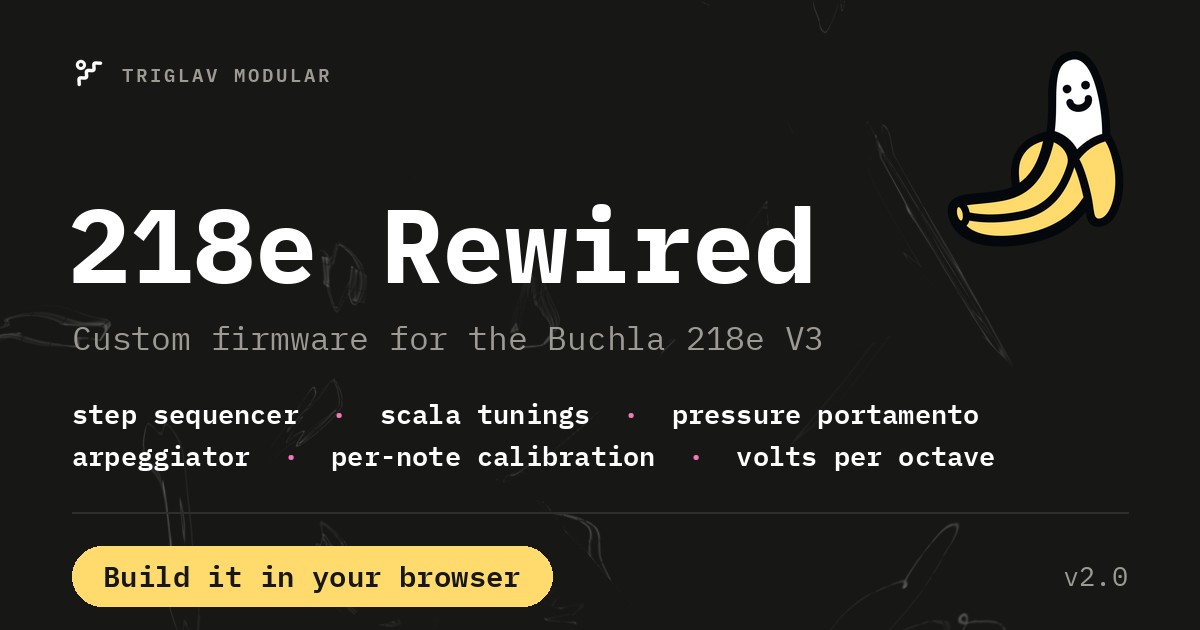
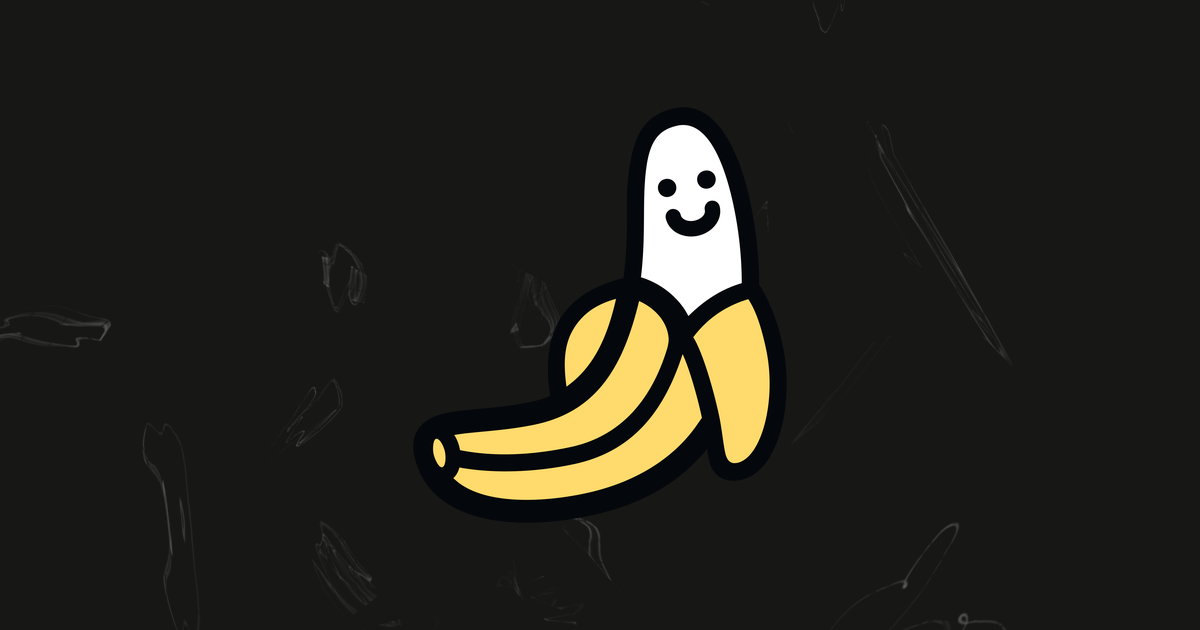
Take the words off the card and centre the banana
The title and the description sit directly under the image in every feed
that shows one, so a card that spelled them out again said everything
twice. What a preview is for is being recognised in a scroll, and that is
the banana's job.

So the card is the banana, whole, at two thirds of the height, on the
ground the page itself stands on. Centred on the drawing rather than on
the file it arrives in: banana.svg is an Illustrator export with air on
one side, and centring its frame left the banana visibly right of centre,
so the render is trimmed to its ink first and the height means the fruit.

The wave stays at .32 where the page runs it at .5 - a card is a 1200x630
crop of the same drawing, which packs those strokes into a sixth of the
room and turns a ground into marks on the picture.

That drops the type, and with it fontTools and the licensed-face problem
the headline had: nothing here is set in anything now, so the tool needs
Pillow and cairosvg and no font at all. og:image:alt describes the picture
rather than the words that used to be on it.

Claude-Session: https://claude.ai/code/session_01JBcw1j9JKiynshZqRqZo1y

diff --git a/web/index.html b/web/index.html
@@ -18,8 +18,10 @@
          crop of the peel on white with no words on it.
 
          The card itself is web/images/og-card.png, drawn by
-         tools/make-og-card.py from this page's own palette, wave, mark,
-         banana and version.
+         tools/make-og-card.py: the same banana, whole and centred on the
+         same ground this page stands on.  Nothing is written on it - the
+         title and the description below are what carry the words, and a
+         card that repeated them would say everything twice.
 
          Absolute, and on the domain rather than on github.io: a scraper
          resolves nothing relative, and the page answers on both hosts.
@@ -46,7 +48,7 @@
     <meta property="og:image:type" content="image/png">
     <meta property="og:image:width" content="1200">
     <meta property="og:image:height" content="630">
-    <meta property="og:image:alt" content="218e Rewired — custom firmware for the Buchla 218e V3. Step sequencer, Scala tunings, pressure portamento, arpeggiator, per-note calibration, volts per octave. Build it in your browser.">
+    <meta property="og:image:alt" content="The 218e Rewired mark: a half-peeled cartoon banana, yellow and white, centred on a dark ground.">
     <!-- summary_large_image is the wide card; the default is a thumbnail
          beside the text, which is the 1200x630 squeezed into a square. -->
     <meta name="twitter:card" content="summary_large_image">

diff --git a/tools/make-og-card.py b/tools/make-og-card.py
@@ -6,122 +6,74 @@ take the only image the page has, which is the 56px banana in the header, and
 blow it up to fill a 1200x630 card.  What that produces is a blurred crop of
 one curve of the peel, on white, with no words on it.
 
-So the card is drawn here instead, from the same parts the page is made of -
-the palette, the wave, the mark, the banana, the version - so that it cannot
-say something the page has stopped saying.
+So the card is drawn here instead: the same banana, whole and at a size it was
+meant to be seen at, on the same ground the page stands on.  Nothing is
+written on it - the title and the description in the <head> are what carry the
+words, and a card that repeats them says everything twice.
 
-    pip install pillow "fonttools[woff]" cairosvg
+    pip install pillow cairosvg
     python3 tools/make-og-card.py
 
 Run by hand, like tools/make-icons.py, and the PNG is committed: the page
-workflow runs on a machine with none of those three installed, and a card that
-only exists when a rasteriser does is a card that eventually does not exist.
-
-The type is IBM Plex Mono, which is in this repository under the OFL.  The
-page's own display face, Euclid Circular A, deliberately is not - it is
-licensed to Triglav Modular, not redistributable, and served from
-triglavmodular.hu.  Whoever holds that licence can pass their own copy:
-
-    python3 tools/make-og-card.py --display-font ~/fonts/EuclidCircularA-Bold.otf
-
-and the headline is set in it.  Everything else is unchanged, and the default
-run needs nothing that is not already here.
+workflow runs on a machine with neither installed, and a card that only exists
+where a rasteriser does is a card that eventually does not exist.
 """
 import argparse
-import io
 import re
+from io import BytesIO
 from pathlib import Path
 
-from PIL import Image, ImageDraw, ImageFont
-from fontTools.ttLib import TTFont
+from PIL import Image
 import cairosvg
 
 REPO = Path(__file__).resolve().parent.parent
 WEB = REPO / "web"
 
 # 1200x630 is Facebook's recommended size and the 1.91:1 it crops everything
-# else to; Twitter/X, LinkedIn, Slack and iMessage all read the same card.
+# else to; Twitter/X, LinkedIn, Slack and iMessage read the same card.
 W, H = 1200, 630
-PAD = 72
 
-# From web/style.css, which tools/sync-site.py keeps in step with the theme.
-# Read out of the sheet rather than repeated here: a card in last season's
-# colours is exactly the drift that block exists to prevent.
-PALETTE_KEYS = ("bg", "panel", "line", "ink", "muted", "accent", "accent2")
+# How tall the banana itself stands in that frame, ink to ink.  Two thirds:
+# enough to be the subject at the size a feed shows a card, with enough ground
+# left around it that it reads as placed rather than cropped.
+SUBJECT = round(H * 0.66)
 
-
-def palette():
+# The page's background, out of the block tools/sync-site.py keeps in step
+# with the theme rather than repeated here - a card in last season's colours
+# is exactly the drift that block exists to prevent.
+def background():
     css = (WEB / "style.css").read_text(encoding="utf-8")
     block = css.split("/* sync-site:begin */", 1)[1].split("/* sync-site:end */", 1)[0]
-    out = {}
-    for key in PALETTE_KEYS:
-        m = re.search(rf"--{key}:\s*(#[0-9a-fA-F]{{3,8}})\s*;", block)
-        if not m:
-            raise SystemExit(f"--{key} is not in the synced block of web/style.css")
-        out[key] = m.group(1)
-    return out
-
-
-def version():
-    """The version the page prints beside the title: major.minor, no patch."""
-    toml = (REPO / "config" / "218e.toml").read_text(encoding="utf-8")
-    m = re.search(r'^\s*version\s*=\s*"([^"]+)"', toml, re.M)
+    m = re.search(r"--bg:\s*(#[0-9a-fA-F]{3,8})\s*;", block)
     if not m:
-        raise SystemExit("no firmware version in config/218e.toml")
-    return ".".join(m.group(1).split(".")[:2])
+        raise SystemExit("--bg is not in the synced block of web/style.css")
+    return m.group(1)
 
 
-class Faces:
-    """IBM Plex Mono out of web/fonts, plus an optional display face.
+def svg(path, height, rotate=0.0):
+    """An SVG from the repository, turned, trimmed to its ink and sized to it.
 
-    Pillow reads TrueType and OpenType and not woff2, and the repository ships
-    woff2 because that is what the page loads.  fontTools unwraps one into the
-    other in memory, so nothing has to be committed twice.
+    Rendered at 4x and brought down, because cairosvg antialiases well enough
+    on its own but the rotation does not: turning a 400px bitmap leaves
+    visible steps on the peel's outline, and turning a 1600px one and then
+    quartering it does not.
+
+    Trimmed, because the artwork does not fill its own viewBox - it is an
+    Illustrator export with air on one side - and centring the frame it came
+    in put the banana visibly right of centre.  What is centred has to be the
+    drawing, so the frame goes and `height` means the banana.
     """
-
-    def __init__(self, display=None):
-        self._raw = {}
-        for weight in ("Regular", "SemiBold", "Bold"):
-            src = WEB / "fonts" / f"IBMPlexMono-{weight}.woff2"
-            font = TTFont(src)
-            buf = io.BytesIO()
-            font.flavor = None          # woff2 in, plain sfnt out
-            font.save(buf)
-            self._raw[weight] = buf.getvalue()
-        self._raw["Display"] = (Path(display).read_bytes() if display
-                                else self._raw["Bold"])
-        if display and Path(display).suffix.lower() == ".woff2":
-            font = TTFont(io.BytesIO(self._raw["Display"]))
-            buf = io.BytesIO()
-            font.flavor = None
-            font.save(buf)
-            self._raw["Display"] = buf.getvalue()
-
-    def __call__(self, weight, size):
-        return ImageFont.truetype(io.BytesIO(self._raw[weight]), size)
-
-
-def svg(path, width, fill=None, rotate=0.0):
-    """An SVG from the repository, rendered to RGBA at 4x and brought down.
-
-    cairosvg antialiases well enough on its own, but the rotation does not:
-    turning a 210px bitmap leaves visible steps on the peel's outline, and
-    turning an 840px one and then halving it twice does not.
-    """
-    source = Path(path).read_text(encoding="utf-8")
-    if fill:
-        source = source.replace('fill="#000000"', f'fill="{fill}"')
-    png = cairosvg.svg2png(bytestring=source.encode("utf-8"),
-                           output_width=width * 4)
-    art = Image.open(io.BytesIO(png)).convert("RGBA")
+    png = cairosvg.svg2png(url=str(path), output_height=height * 4)
+    art = Image.open(BytesIO(png)).convert("RGBA")
     if rotate:
         art = art.rotate(rotate, resample=Image.BICUBIC, expand=True)
-    ratio = art.height / art.width
-    return art.resize((width, max(1, round(width * ratio))), Image.LANCZOS)
+    art = art.crop(art.getbbox())
+    width = max(1, round(height * art.width / art.height))
+    return art.resize((width, height), Image.LANCZOS)
 
 
 def ground(colour):
-    """The page's background: the flat colour, then the wave over it at .5."""
+    """The page's background: the flat colour, then the wave held back over it."""
     card = Image.new("RGBA", (W, H), colour)
     wave = Image.open(WEB / "images" / "wave_bg.png").convert("RGBA")
     # background-size: cover - scale to fill, then crop the overflow centred.
@@ -130,88 +82,23 @@ def ground(colour):
                        Image.LANCZOS)
     left, top = (wave.width - W) // 2, (wave.height - H) // 2
     wave = wave.crop((left, top, left + W, top + H))
-    # The page runs it at .5, across a viewport far wider than the 820px
-    # column of text.  A card is all column: at .5 the strokes read as marks
-    # on the headline rather than as a ground behind it.
+    # The page runs it at .5, spread across a whole viewport.  A card is a
+    # 1200x630 crop of the same drawing, which packs those strokes into a
+    # sixth of the room and turns a ground into marks on the image.
     alpha = wave.getchannel("A").point(lambda a: round(a * 0.32))
     wave.putalpha(alpha)
     card.alpha_composite(wave)
     return card
 
 
-def tracked(draw, xy, text, font, fill, tracking):
-    """Draw with letter-spacing, which Pillow has no notion of."""
-    x, y = xy
-    for ch in text:
-        draw.text((x, y), ch, font=font, fill=fill)
-        x += draw.textlength(ch, font=font) + tracking
-    return x - tracking
-
-
-def runs(draw, xy, parts, font, sep, sep_fill):
-    """A "a · b · c" line where the separators carry their own colour."""
-    x, y = xy
-    for i, (text, fill) in enumerate(parts):
-        if i:
-            draw.text((x, y), sep, font=font, fill=sep_fill)
-            x += draw.textlength(sep, font=font)
-        draw.text((x, y), text, font=font, fill=fill)
-        x += draw.textlength(text, font=font)
-    return x
-
-
-def build(out, display_font=None):
-    c = palette()
-    face = Faces(display_font)
-    card = ground(c["bg"])
-    draw = ImageDraw.Draw(card)
-
-    # The banana sits where it sits on the page: top right, turned -12 degrees,
-    # and about the same share of the width it has there (140 of 820).
-    banana = svg(WEB / "images" / "banana.svg", 214, rotate=12)
-    card.alpha_composite(banana, (W - PAD - banana.width + 6, 46))
-
-    # The brand row, set like the site navigation: the mark, then the name
-    # uppercase at 2px of tracking.
-    mark = svg(WEB / "icons" / "safari-pinned-tab.svg", 34, fill="#fffdfb")
-    card.alpha_composite(mark, (PAD, 56))
-    tracked(draw, (PAD + 50, 62), "TRIGLAV MODULAR",
-            face("SemiBold", 19), c["muted"], 2.6)
-
-    # The headline, and under it the sentence the page opens with.
-    draw.text((PAD - 4, 176), "218e Rewired", font=face("Display", 104),
-              fill=c["ink"])
-    draw.text((PAD, 316), "Custom firmware for the Buchla 218e V3",
-              font=face("Regular", 33), fill=c["muted"])
-
-    # What it does, in the words the page uses for them.  Two lines rather
-    # than one: at the size a feed actually shows a card - about 500px wide,
-    # less on a phone - a single line of six features is unreadable.
-    features = face("SemiBold", 27)
-    runs(draw, (PAD, 396), [("step sequencer", c["ink"]),
-                            ("scala tunings", c["ink"]),
-                            ("pressure portamento", c["ink"])],
-         features, "  ·  ", c["accent2"])
-    runs(draw, (PAD, 438), [("arpeggiator", c["ink"]),
-                            ("per-note calibration", c["ink"]),
-                            ("volts per octave", c["ink"])],
-         features, "  ·  ", c["accent2"])
-
-    draw.line([(PAD, 512), (W - PAD, 512)], fill=c["line"], width=2)
-
-    # The call to action, drawn as the page's own build button.
-    label, size = "Build it in your browser", 29
-    font = face("SemiBold", size)
-    text_w = draw.textlength(label, font=font)
-    pill = (PAD, 546, PAD + text_w + 62, 546 + 60)
-    draw.rounded_rectangle(pill, radius=30, fill=c["accent"])
-    draw.text((PAD + 31, 546 + 30), label, font=font, fill=c["bg"],
-              anchor="lm")
-
-    # And the version, right-aligned on the same line, as the page prints it.
-    draw.text((W - PAD, 546 + 30), f"v{version()}",
-              font=face("Regular", 27), fill=c["muted"], anchor="rm")
-
+def build(out):
+    card = ground(background())
+    # Turned the way it is turned on the page, where it sits at -12 degrees.
+    # Rotating grows the bitmap into transparent corners, so centring the
+    # bitmap is centring the banana.
+    banana = svg(WEB / "images" / "banana.svg", SUBJECT, rotate=12)
+    card.alpha_composite(banana, ((W - banana.width) // 2,
+                                  (H - banana.height) // 2))
     card.convert("RGB").save(out, "PNG", optimize=True)
     print(f"  wrote {Path(out).relative_to(REPO)} "
           f"({Path(out).stat().st_size // 1024} KB)")
@@ -220,11 +107,7 @@ def build(out, display_font=None):
 def main():
     ap = argparse.ArgumentParser(description=__doc__.splitlines()[0])
     ap.add_argument("--out", default=str(WEB / "images" / "og-card.png"))
-    ap.add_argument("--display-font", default=None,
-                    help="a .otf/.ttf/.woff2 to set the headline in; "
-                         "IBM Plex Mono Bold otherwise")
-    args = ap.parse_args()
-    build(args.out, args.display_font)
+    build(ap.parse_args().out)
 
 
 if __name__ == "__main__":

diff --git a/docs/BUILD.md b/docs/BUILD.md
@@ -558,27 +558,30 @@ card is `web/images/og-card.png`, drawn by
 [../tools/make-og-card.py](../tools/make-og-card.py):
 
 ```bash
-pip install pillow "fonttools[woff]" cairosvg
+pip install pillow cairosvg
 python3 tools/make-og-card.py
 ```
 
-It takes the palette out of the `sync-site` block in `style.css`, the mark out
-of `web/icons/safari-pinned-tab.svg`, the banana out of `web/images`, the wave
-out of the background it is drawn on and the version out of
-`config/218e.toml`, so a card cannot claim a colour or a version the page has
-stopped using. It does not run in the workflow: the deploy runner has no
-rasteriser, and a card that exists only where one is installed eventually does
-not exist. So it is committed, like `mac/Flasher.zip`, and redrawn by hand
-after a change to any of those parts.
+The card carries no words. The `og:title` and `og:description` sit directly
+under the image in every feed that shows one, so anything written on it is
+said twice; what the picture is for is being recognised at a glance, which is
+the banana's job and not a paragraph's. So it is the banana, whole, at two
+thirds of the card's height, centred on the ground the page itself stands on -
+the background colour out of the `sync-site` block in `style.css` and the wave
+out of `web/images`, so a card cannot show a colour the page has stopped
+using.
 
-The headline is set in IBM Plex Mono, which is in this repository under the
-OFL. The page's display face, Euclid Circular A, is not - it is licensed to
-Triglav Modular, served from `triglavmodular.hu`, and deliberately not copied
-here. Whoever holds that licence can point the tool at their own copy:
+Centred on the drawing, not on the file it arrives in: `banana.svg` is an
+Illustrator export with air on one side, and centring its frame put the banana
+visibly right of centre. The tool trims to the ink first. The wave is held
+back to .32 where the page runs it at .5 - a card is a 1200x630 crop of the
+same drawing, which packs the strokes into a sixth of the room and turns a
+ground into marks on the image.
 
-```bash
-python3 tools/make-og-card.py --display-font ~/fonts/EuclidCircularA-Bold.otf
-```
+It does not run in the workflow: the deploy runner has no rasteriser, and a
+card that exists only where one is installed eventually does not exist. So it
+is committed, like `mac/Flasher.zip`, and redrawn by hand after a change to
+the palette, the background or the banana.
 
 ### Two hostnames, one page
 

diff --git a/web/README.md b/web/README.md
@@ -31,13 +31,13 @@ else, or the page opened from a file, reports nowhere. See "Counting builds" in
 | `images/og-card.png` | **generated** — the link preview, by `tools/make-og-card.py` |
 
 The card is what Facebook, LinkedIn, Slack, Discord and iMessage show when
-somebody posts the page. It is committed rather than built in the workflow —
-drawing it needs Pillow, fontTools and cairosvg, and the deploy runner has
-none of them. Redraw it after a change to the version, the palette, the mark
-or the banana:
+somebody posts the page: the banana, whole and centred, on the page's own
+ground. It is committed rather than built in the workflow — drawing it needs
+Pillow and cairosvg, and the deploy runner has neither. Redraw it after a
+change to the palette, the background or the banana:
 
 ```bash
-pip install pillow "fonttools[woff]" cairosvg
+pip install pillow cairosvg
 python3 tools/make-og-card.py
 ```
 
